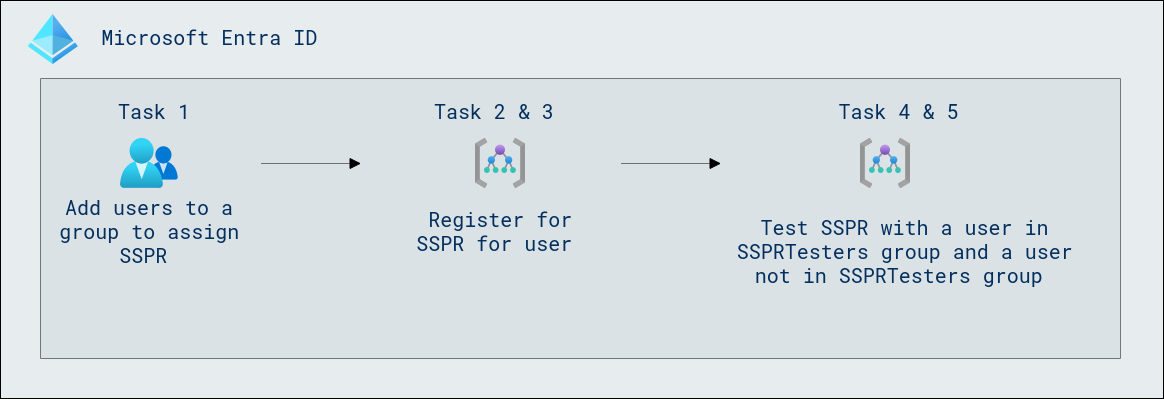
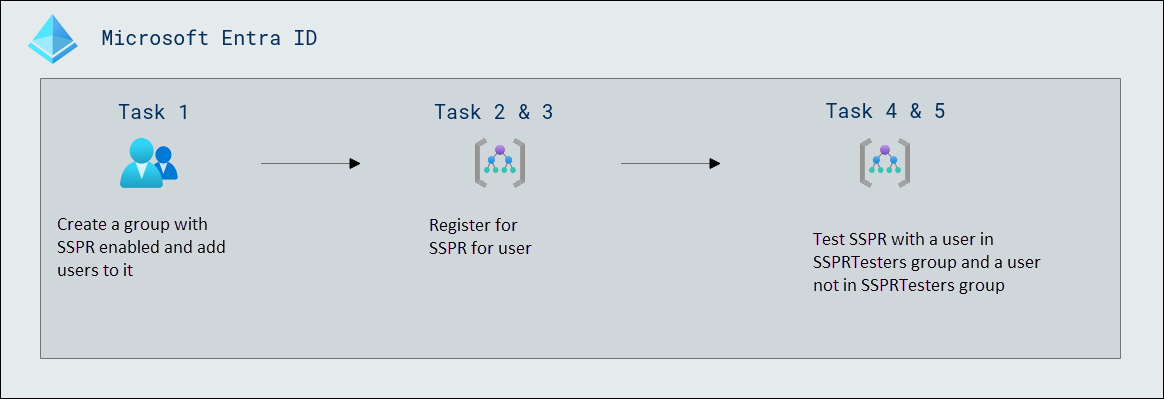
Updated

diff --git a/Instructions/Labs/Lab_09_ConfigureAndDeploySelfServicePasswordReset.md b/Instructions/Labs/Lab_09_ConfigureAndDeploySelfServicePasswordReset.md
@@ -6,7 +6,7 @@ The company has decided to empower the employees and enable self-service passwor
 ## Lab objectives
 In this lab, you will complete the following tasks:
 
-- Task 1 - Add users to a group to assign SSPR
+- Task 1 - Create a group to assign SSPR to it
 - Task 2 - Enable SSPR for the group
 - Task 3 - Register for SSPR with Alex
 - Task 4 - Test SSPR
@@ -18,32 +18,33 @@ In this lab, you will complete the following tasks:
 
    ![](./media/arch-09.png)
 
-### Exercise 1 - Add users to a group with SSPR enabled
-
-To add users to a group with SSPR enabled, use your identity management system (e.g., microsoft entra id) to add users to the desired group and configure Self-Service Password Reset settings for that group.
-
-#### Task 1 - Add users to a group to assign SSPR
+### Exercise 1 - Create a group with SSPR enabled and add users to it
 
 You want to roll out SSPR to a limited set of users first to make sure your SSPR configuration works as expected. Let's create a security group for the limited rollout and add a user to the group.
 
-1. In Azure Portal page, in Search resources, services and docs (G+/) box at the top of the portal, enter **Microsoft Entra ID**, and then select **Microsoft Entra ID** under services.
+#### Task 1 - Create a group with SSPR enabled and add users to it
 
-    ![](./media/lab9-1.png)
+You want to roll out SSPR to a limited set of users first to make sure your SSPR configuration works as expected. Let's create a security group for the limited rollout and add a user to the group.
 
-1. On the Microsoft Entra ID page, from the left-hand navigation page, under **Manage**, select **Groups**.
+1. On the Microsoft Entra admin center, open the **Identity** navigation menu on the left.
+1. Under **Groups**, select **All groups** and select **New Group** on the right side window.
 
-1. Search and select for **SSPRTesters**.
+2. Create a new group using the following information:
 
-    ![](./media/lab9-2.png)
+    | **Setting**| **Value**|
+    | :--- | :--- |
+    | Group type| Security|
+    | Group name| SSPRTesters|
+    | Group description| Testers of SSPR rollout|
+    | Membership type| Assigned|
+    | Members| Alex Wilber |
+    | |  Allan Deyoung |
+    | | Bianca Pisani |
+  
+3. Select **Create**.
 
-1. From the left-hand navigation pane, under **Manage** section, select **Members**. On the **SSPRTesters | Members**, select **+ Add members**.
+    ![Screen image displaying the New Group page with group type, group name, and create highlighted](./media/lp2-mod2-create-sspr-security-group.png)
 
-1. On **Add members** window search and select these members **Alex Wilber**, **Allan Deyoung**, **Bianca Pisani** and check on **Select**.
-   ![](./media/lab9-3.png)
-
-1. Back on **SSPRTesters | Members**, refresh the page and you should see all three user are list as shown in below image.
-
-    ![](./media/members.png)
 
    > **Congratulations** on completing the task! Now, it's time to validate it. Here are the steps:
    > - Navigate to the Lab Validation Page, from the upper right corner in the lab guide section.
@@ -83,7 +84,7 @@ Now that the SSPR configuration is complete, register a mobile phone number for 
 
     >**Note:** This is to ensure you well be prompted for user authentication.
 
-1. Sign in as **alex.wilber@cloudlabsai.com**, with the password = Enter the admin password of the tenant(Refer the **Environment Details** tab to retrieve the Alex's password).
+1. Sign in as **alex.wilber@ `<<organization-domain-name>>.com`**, with the password = Enter the admin password of the tenant(Refer the **Environment Details** tab to retrieve the Alex's password).
 
     >**Note:** If prompted to update your password, enter a new password of your choice. Be sure to record the new password.
 
@@ -111,7 +112,7 @@ Now let's test whether the user can reset their password.
 
     This is to ensure you well be prompted for user authentication.
 
-1. Enter **alex.wilber@cloudlabsai.com**, and then select **Next**.
+1. Enter **alex.wilber@`<<organization-domain-name>>.com`**, and then select **Next**.
 
 1. On the Enter password page, select **Forgot my password**.
 
@@ -134,7 +135,7 @@ Now let's test whether the user can reset their password.
 
 1. Now, browse to [https://portal.azure.com](https://portal.azure.com).
 
-1. Sign in as **alex.wilber@cloudlabsai.com** with the new password you created.
+1. Sign in as **alex.wilber@`<<organization-domain-name>>.com`** with the new password you created.
 
 10. Enter your verification code and then verify you can complete the sign in process.
 
@@ -146,7 +147,7 @@ Now let's test whether the user can reset their password.
 
 1. As a test, open a new InPrivate browser window, and browse to [https://portal.azure.com](https://portal.azure.com).
 
-1. Type the username **miriam.graham@cloudlabsai.com**, and then select **Next**.
+1. Type the username **miriam.graham@`<<organization-domain-name>>.com`**, and then select **Next**.
    
 1. On the Enter password page, select **Forgot my password**.
 
